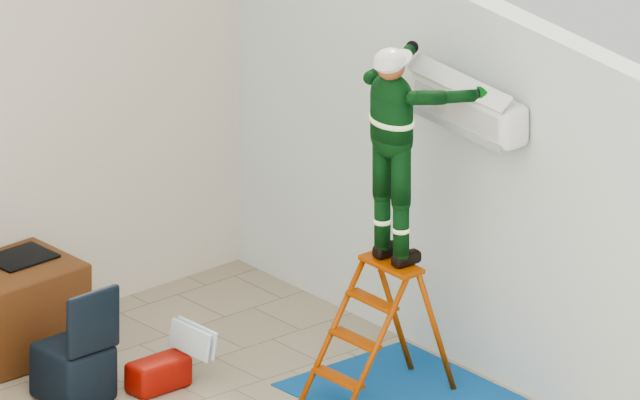
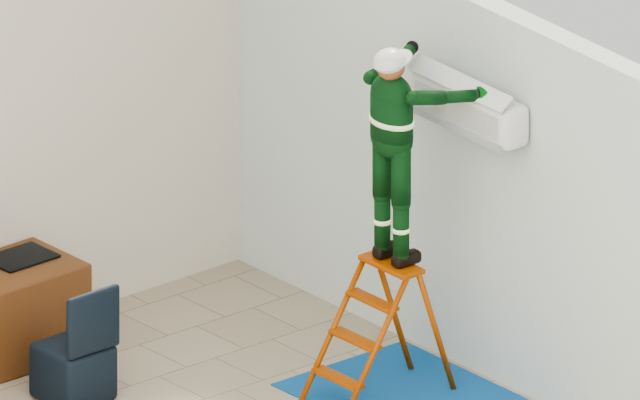
Clients as a static grid of 80 key names; AC wall clip without toolbag
Claude-Session: https://claude.ai/code/session_01L3YhTJi3NckTBTw5PP3osq

Changed region(s): [[0.1875, 0.78, 0.3438, 1.0]]

diff --git a/index.html b/index.html
@@ -283,6 +283,10 @@ section.alt{background:var(--alt)}
 .ctrack{display:flex;gap:8px;width:max-content;will-change:transform;margin-bottom:8px}
 .ctrack div{flex:none;width:112px;height:64px;background:#fff;border:1px solid var(--line);border-radius:10px;display:grid;place-items:center;padding:8px}
 .ctrack img{max-width:100%;max-height:42px;width:auto;height:auto;display:block}
+.cgrid{max-width:560px;margin:0 auto 6px;padding-left:max(20px,env(safe-area-inset-left,0px));padding-right:max(20px,env(safe-area-inset-right,0px));display:grid;grid-template-columns:repeat(4,minmax(0,1fr));gap:8px}
+.cgrid div{background:#fff;border:1px solid var(--line);border-radius:10px;aspect-ratio:3/2;display:flex;align-items:center;justify-content:center;padding:6px;min-width:0;overflow:hidden}
+.cgrid img{width:100%;height:100%;object-fit:contain;display:block}
+@media(min-width:520px){.cgrid{grid-template-columns:repeat(5,minmax(0,1fr))}}
 .ccount{display:grid;gap:4px;margin-top:14px}
 .ccount .big{font-size:44px}
 /* contact */
@@ -613,7 +617,7 @@ section.alt{background:var(--alt)}
 <!-- 12 CLIENTS -->
 <section class="clients" id="clients">
   <div class="wrap"><p class="lab rv">Our clients</p><h2 class="rv" style="margin-top:10px">Trusted across <b>the UAE.</b></h2>
-  <div class="ccount rv"><span class="big" data-count="4000" data-suf="+">4,000+</span><span class="lead" style="font-size:14px">clients served by Sanco Group. Some of the names we work with:</span></div></div>
+  <div class="ccount rv"><span class="big" data-count="4000" data-suf="+">4,000+</span><span class="lead" style="font-size:14px">clients served by Sanco Group. Some of the names we look after:</span></div></div>
   <div id="crows"></div>
 </section>
 
@@ -826,17 +830,12 @@ $('plist').innerHTML=PJ.map((p,i)=>`<div class="rv" data-d="${i%2?'r':'l'}"><h3>
 // ---------- clients ----------
 const CL={"Restaurants, cafés & F&B": [["Nando's", "logos/nando-s.png"], ["%Arabica", "logos/arabica.png"], ["Cipriani", "logos/cipriani.png"], ["La Petite Maison", "logos/la-petite-maison.png"], ["Wagamama", "logos/wagamama.png"], ["The Coffee Club", "logos/the-coffee-club.png"], ["Hurricane's Grill", "logos/hurricane-s-grill.png"], ["Sarabeth's", "logos/sarabeth-s.png"], ["Gymkhana", "logos/gymkhana.png"], ["Shanghai Me", "logos/shanghai-me.png"], ["Kailash Parbat", "logos/kailash-parbat.png"], ["Chicking", "logos/chicking.png"], ["Dodo Pizza", "logos/dodo-pizza.png"], ["Drinkit", "logos/drinkit.png"], ["Rebel Foods", "logos/rebel-foods.png"], ["Calo", "logos/calo.png"], ["Bombay Bungalow", "logos/bombay-bungalow.png"], ["Za'Za", "logos/za-za.png"], ["Scalini", "logos/scalini.png"], ["Gaia", "logos/gaia.png"], ["Sirene", "logos/sirene.png"], ["Ichikura", "logos/ichikura.png"], ["INA", "logos/ina.png"], ["Yann Couvreur", "logos/yann-couvreur.png"], ["Cafe de Paris", "logos/cafe-de-paris.png"], ["Al Sultan", "logos/al-sultan.png"], ["Potato Corner", "logos/potato-corner.png"], ["Pitfire", "logos/pitfire.png"], ["Da Michele", "logos/da-michele.png"], ["Off the Hook", "logos/off-the-hook.png"], ["Bulldozer Group", "logos/bulldozer-group.png"], ["KitchenPark", "logos/kitchenpark.png"], ["Express Kitchens", "logos/express-kitchens.png"], ["Asian 5", "logos/asian-5.png"], ["Kulcha King", "logos/kulcha-king.png"], ["India Palace", "logos/india-palace.png"], ["Noon and Kabab", "logos/noon-and-kabab.png"], ["Poke & Co", "logos/poke-and-co.png"], ["Black Spoon", "logos/black-spoon.png"], ["Allo Beirut", "logos/allo-beirut.png"], ["Rawabi Al Sham", "logos/rawabi-al-sham.png"], ["Ibn Albahr", "logos/ibn-albahr.png"], ["Abu Ali", "logos/abu-ali.png"], ["Malgudi", "logos/malgudi.png"], ["Feels", "logos/feels.png"], ["Artisan Bakers", "logos/artisan-bakers.png"], ["Arabica Coffee House", "logos/arabica-coffee-house.png"], ["Joud Coffee", "logos/joud-coffee.png"], ["Mama'esh", "logos/mama-esh.png"], ["Kaak Al Manara", "logos/kaak-al-manara.png"], ["The Lighthouse", "logos/the-lighthouse.png"], ["Saddle", "logos/saddle.png"], ["Mezzanine", "logos/mezzanine.png"], ["Origami Sushi", "logos/origami-sushi.png"], ["Roasters", "logos/roasters.png"], ["Alabdalla", "logos/alabdalla.png"], ["Belgian Café", "logos/belgian-cafe.png"], ["Le Petit Belge", "logos/le-petit-belge.png"], ["Bakerist", "logos/bakerist.png"], ["Beirut Sea", "logos/beirut-sea.png"], ["Cupa Gahwa", "logos/cupa-gahwa.png"], ["Claw BBQ", "logos/claw-bbq.png"], ["Good Burger", "logos/good-burger.png"], ["Blu Pizzeria", "logos/blu-pizzeria.png"], ["CQ French Brasserie", "logos/cq-brasserie.png"], ["Falla", "logos/falla.png"], ["Adaline", "logos/adaline.png"], ["Alaya", "logos/alaya.png"], ["Ilios", "logos/ilios.png"], ["Kabila", "logos/kabila.png"], ["The Little Bali", "logos/the-little-bali.png"], ["Maison Mathis", "logos/maison-mathis.png"], ["Moshi", "logos/moshi.png"], ["Raju Omelette", "logos/raju-omelette.png"], ["Al Maro Hub", "logos/al-maro-hub.png"], ["Chapati Rashid", "logos/chapati-rashid.png"], ["Rollo Bollo", "logos/rollo-bollo.png"], ["Grani Marmo Classic", "logos/grani-marmo-classic.png"], ["Zutto Suki", "logos/zutto-suki.png"], ["Pili Pili", "logos/pili-pili.png"], ["Fynd", "logos/fynd.png"], ["JJ Chicken", "logos/jj-chicken.png"], ["Eathos", "logos/eathos.png"], ["Chocomelt", "logos/chocomelt.png"], ["Vietnamese Foodies", "logos/vietnamese-foodies.png"], ["Tresaj", "logos/tresaj.png"], ["Trouvaille", "logos/trouvaille.png"]], "Hotels & leisure": [["Marriott Bonvoy", "logos/marriott-bonvoy.png"], ["Dorchester Collection", "logos/dorchester-collection.png"], ["Anantara", "logos/anantara.png"], ["Sofitel The Palm", "logos/sofitel-the-palm.png"], ["Swissôtel", "logos/swiss-tel.png"], ["Four Points by Sheraton", "logos/four-points-by-sheraton.png"], ["Wyndham", "logos/wyndham.png"], ["Millennium Hotels", "logos/millennium-hotels.png"], ["Rove Hotels", "logos/rove-hotels.png"], ["Leo & Loona", "logos/leo-loona.png"], ["Hello Park", "logos/hello-park.png"], ["Montreal Barsha Hotel", "logos/montreal-barsha-hotel.png"], ["Ajman Hotel", "logos/ajman-hotel.png"]], "Developers, malls & retail": [["Emaar", "logos/emaar.png"], ["Nakheel", "logos/nakheel.png"], ["Dubai Holding", "logos/dubai-holding.png"], ["Al Habtoor", "logos/al-habtoor.png"], ["Omniyat", "logos/omniyat.png"], ["Binghatti", "logos/binghatti.png"], ["Al Ghurair Centre", "logos/al-ghurair-centre.png"], ["Géant", "logos/g-ant.png"], ["Monoprix", "logos/monoprix.png"], ["Franprix", "logos/franprix.png"], ["J3 Mall", "logos/j3-mall.png"], ["Aswaaq", "logos/aswaaq.png"], ["Prescott Real Estate", "logos/prescott.png"]], "Offices, healthcare & corporate": [["Emirates", "logos/emirates.png"], ["Emirates Engineering", "logos/emirates-engineering.png"], ["Cummins", "logos/cummins.png"], ["Everllence (MAN Energy)", "logos/everllence.png"], ["SAIF Zone", "logos/saif-zone.png"], ["Zulekha Hospital", "logos/zulekha-hospital.png"], ["MedCare", "logos/medcare.png"], ["AGMC", "logos/agmc.png"], ["Mair", "logos/mair.png"], ["PICO International", "logos/pico.png"], ["Gargash", "logos/gargash.png"], ["GMG", "logos/gmg.png"], ["Al Gurg Group", "logos/al-gurg-group.png"], ["MeRex Investment", "logos/merex-investment.png"], ["Merittik", "logos/merittik.png"]], "Facilities management partners": [["Transguard Group", "logos/transguard.png"], ["Dussmann Gulf", "logos/dussmann.png"], ["Emrill", "logos/emrill.png"], ["Farnek", "logos/farnek.png"], ["Imdaad", "logos/imdaad.png"], ["Khidmah", "logos/khidmah.png"], ["Enova", "logos/enova.png"], ["Dulsco Group", "logos/dulsco-group.png"], ["Ejadah", "logos/ejadah.png"], ["Idama", "logos/idama.png"], ["Al Ghurair FM", "logos/al-ghurair-fm.png"], ["ServeU", "logos/serveu.png"], ["Isnaad", "logos/isnaad.png"], ["Iskaan", "logos/iskaan.png"], ["Kemos FM", "logos/kemos-fm.png"], ["BKA Facilities Management", "logos/bka-facilities-management.png"], ["Al Bonian FM", "logos/al-bonian-fm.png"], ["Ontegra", "logos/ontegra.png"], ["Hydro Technologies", "logos/hydro-technologies.png"], ["Mepteq", "logos/mepteq.png"], ["Karmastaji Group", "logos/karmastaji-group.png"], ["Saleh Constructions", "logos/saleh-constructions.png"], ["Righteous Group", "logos/righteous-group.png"]]};
 const crows=$('crows'); let ri=0;
-const TOP={'Restaurants, cafés & F&B':18,'Hotels & leisure':8,'Developers, malls & retail':8,'Offices, healthcare & corporate':6,'Facilities management partners':8};
-for(const [cat,full] of Object.entries(CL)){ const list=full.slice(0,TOP[cat]||8);
-  const perRow=list.length>10?Math.ceil(list.length/2):list.length;
-  crows.insertAdjacentHTML('beforeend',`<div class="cat"><span class="lab">${esc(cat)}</span><span class="lab"></span></div>`);
-  for(let s=0;s<list.length;s+=perRow){
-    const part=list.slice(s,s+perRow); const items=part.map(([n,src])=>`<div><img src="${src}" alt="${n.replace(/"/g,'&quot;')}" loading="lazy"></div>`).join('');
-    const rep=Math.max(2,Math.ceil(900/(part.length*120))+1);
-    crows.insertAdjacentHTML('beforeend',`<div class="ctrack" data-rep="${rep}" data-dir="${ri%2?1:-1}" data-sp="${0.8+((ri*37)%5)/10}">${items.repeat(rep)}</div>`); ri++;
-  }
+const KEY={"Restaurants, cafés & F&B": ["Nando's", "%Arabica", "Cipriani", "La Petite Maison", "Wagamama", "The Coffee Club", "Hurricane's Grill", "Sarabeth's", "Gymkhana", "Shanghai Me", "Kailash Parbat", "Chicking", "Rebel Foods", "Calo", "Bombay Bungalow", "Za'Za", "Cafe de Paris", "Al Sultan", "Gaia", "Sirene", "Scalini", "Ichikura", "Pitfire", "Potato Corner", "Dodo Pizza", "Drinkit", "Bulldozer Group", "KitchenPark", "Allo Beirut", "Rawabi Al Sham", "Off the Hook", "Da Michele"], "Hotels & leisure": ["Marriott Bonvoy", "Dorchester Collection", "Anantara", "Sofitel The Palm", "Swissôtel", "Four Points by Sheraton", "Wyndham", "Millennium Hotels", "Rove Hotels", "Leo & Loona", "Hello Park", "Ajman Hotel"], "Developers, malls & retail": ["Emaar", "Nakheel", "Dubai Holding", "Al Habtoor", "Omniyat", "Binghatti", "Al Ghurair Centre", "Géant", "Monoprix", "Aswaaq", "J3 Mall", "Franprix"], "Offices, healthcare & corporate": ["Emirates", "Emirates Engineering", "Cummins", "Everllence (MAN Energy)", "SAIF Zone", "Zulekha Hospital", "MedCare", "Gargash", "GMG", "Al Gurg Group", "AGMC", "Mair"], "Facilities management partners": ["Transguard Group", "Dussmann Gulf", "Emrill", "Farnek", "Imdaad", "Khidmah", "Enova", "Dulsco Group", "Ejadah", "Idama", "ServeU", "Isnaad"]};
+for(const [cat,full] of Object.entries(CL)){
+  const want=KEY[cat]||[]; const byN=Object.fromEntries(full.map(x=>[x[0],x])); const list=want.map(n=>byN[n]).filter(Boolean);
+  crows.insertAdjacentHTML('beforeend',`<div class="cat"><span class="lab">${esc(cat)}</span></div><div class="cgrid">${list.map(([n,src],i)=>`<div class="rv" data-d="z" style="transition-delay:${(i%4)*0.06}s"><img src="${src}" alt="${n.replace(/"/g,'&quot;')}" loading="lazy"></div>`).join('')}</div>`);
 }
-const tracks=[...document.querySelectorAll('.ctrack')]; let drift=0; const clients=$('clients');
+const tracks=[]; let drift=0; const clients=$('clients');
 
 // ---------- reveal both ways ----------
 const dirs=['l','r','d','l','r','u'];
